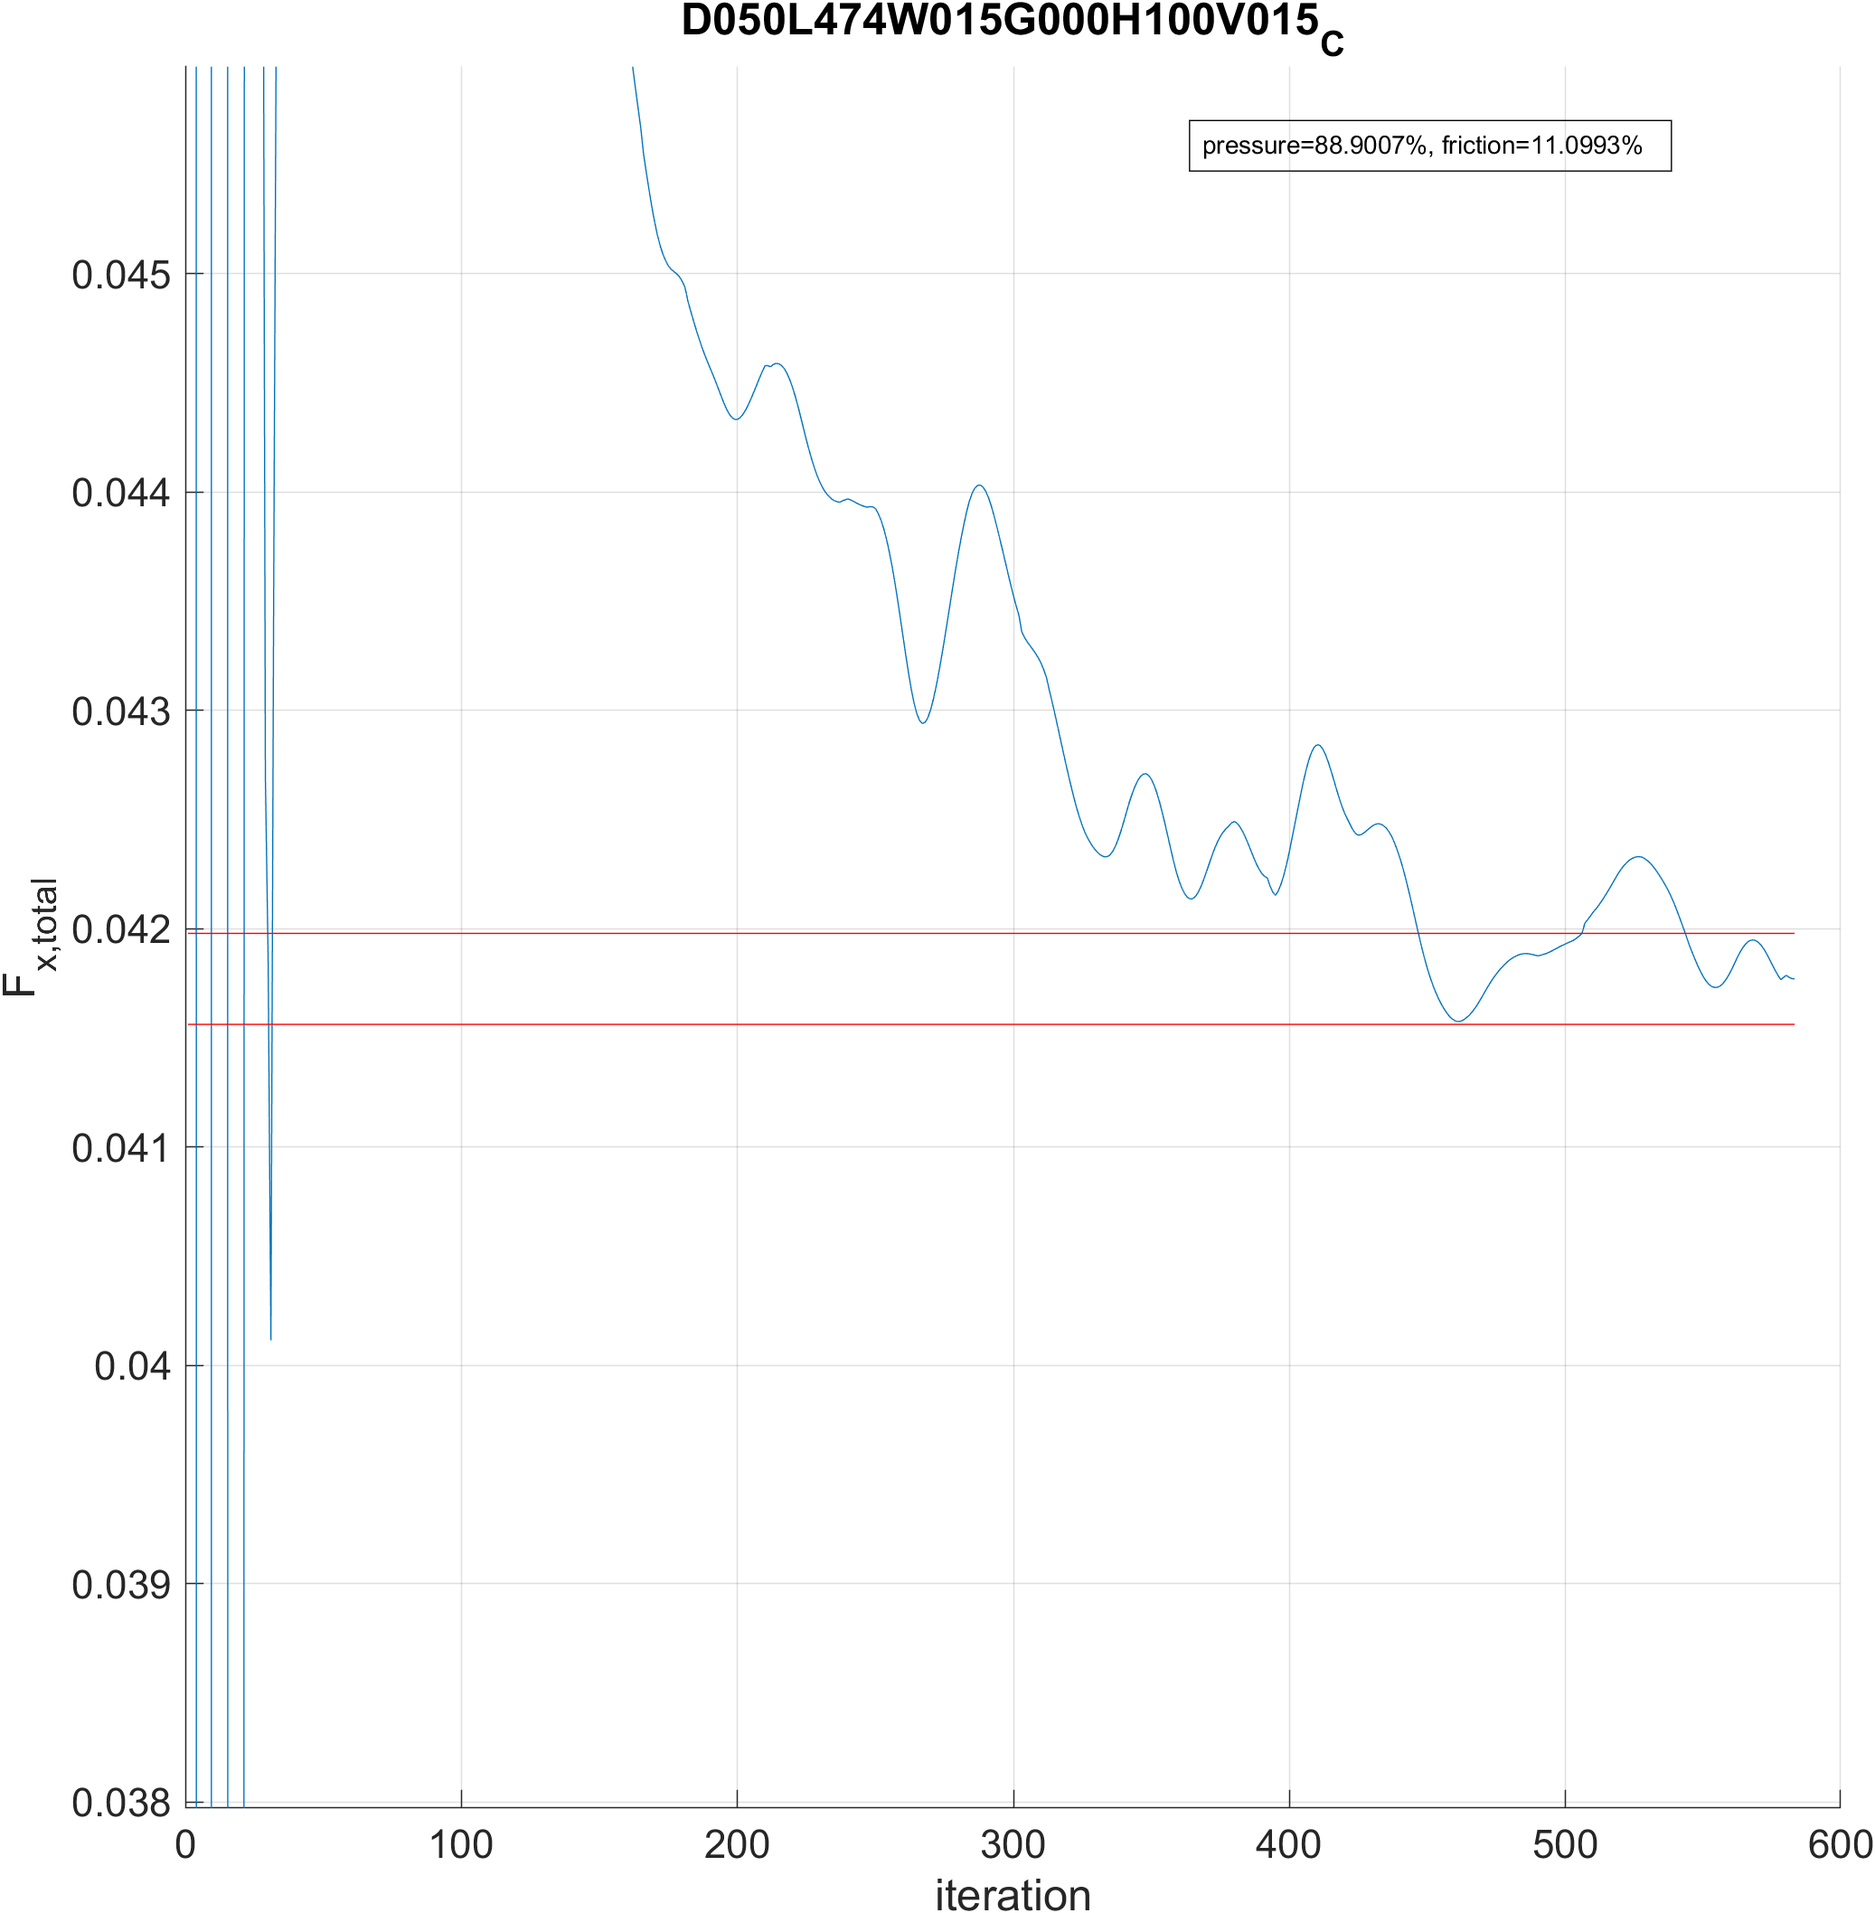
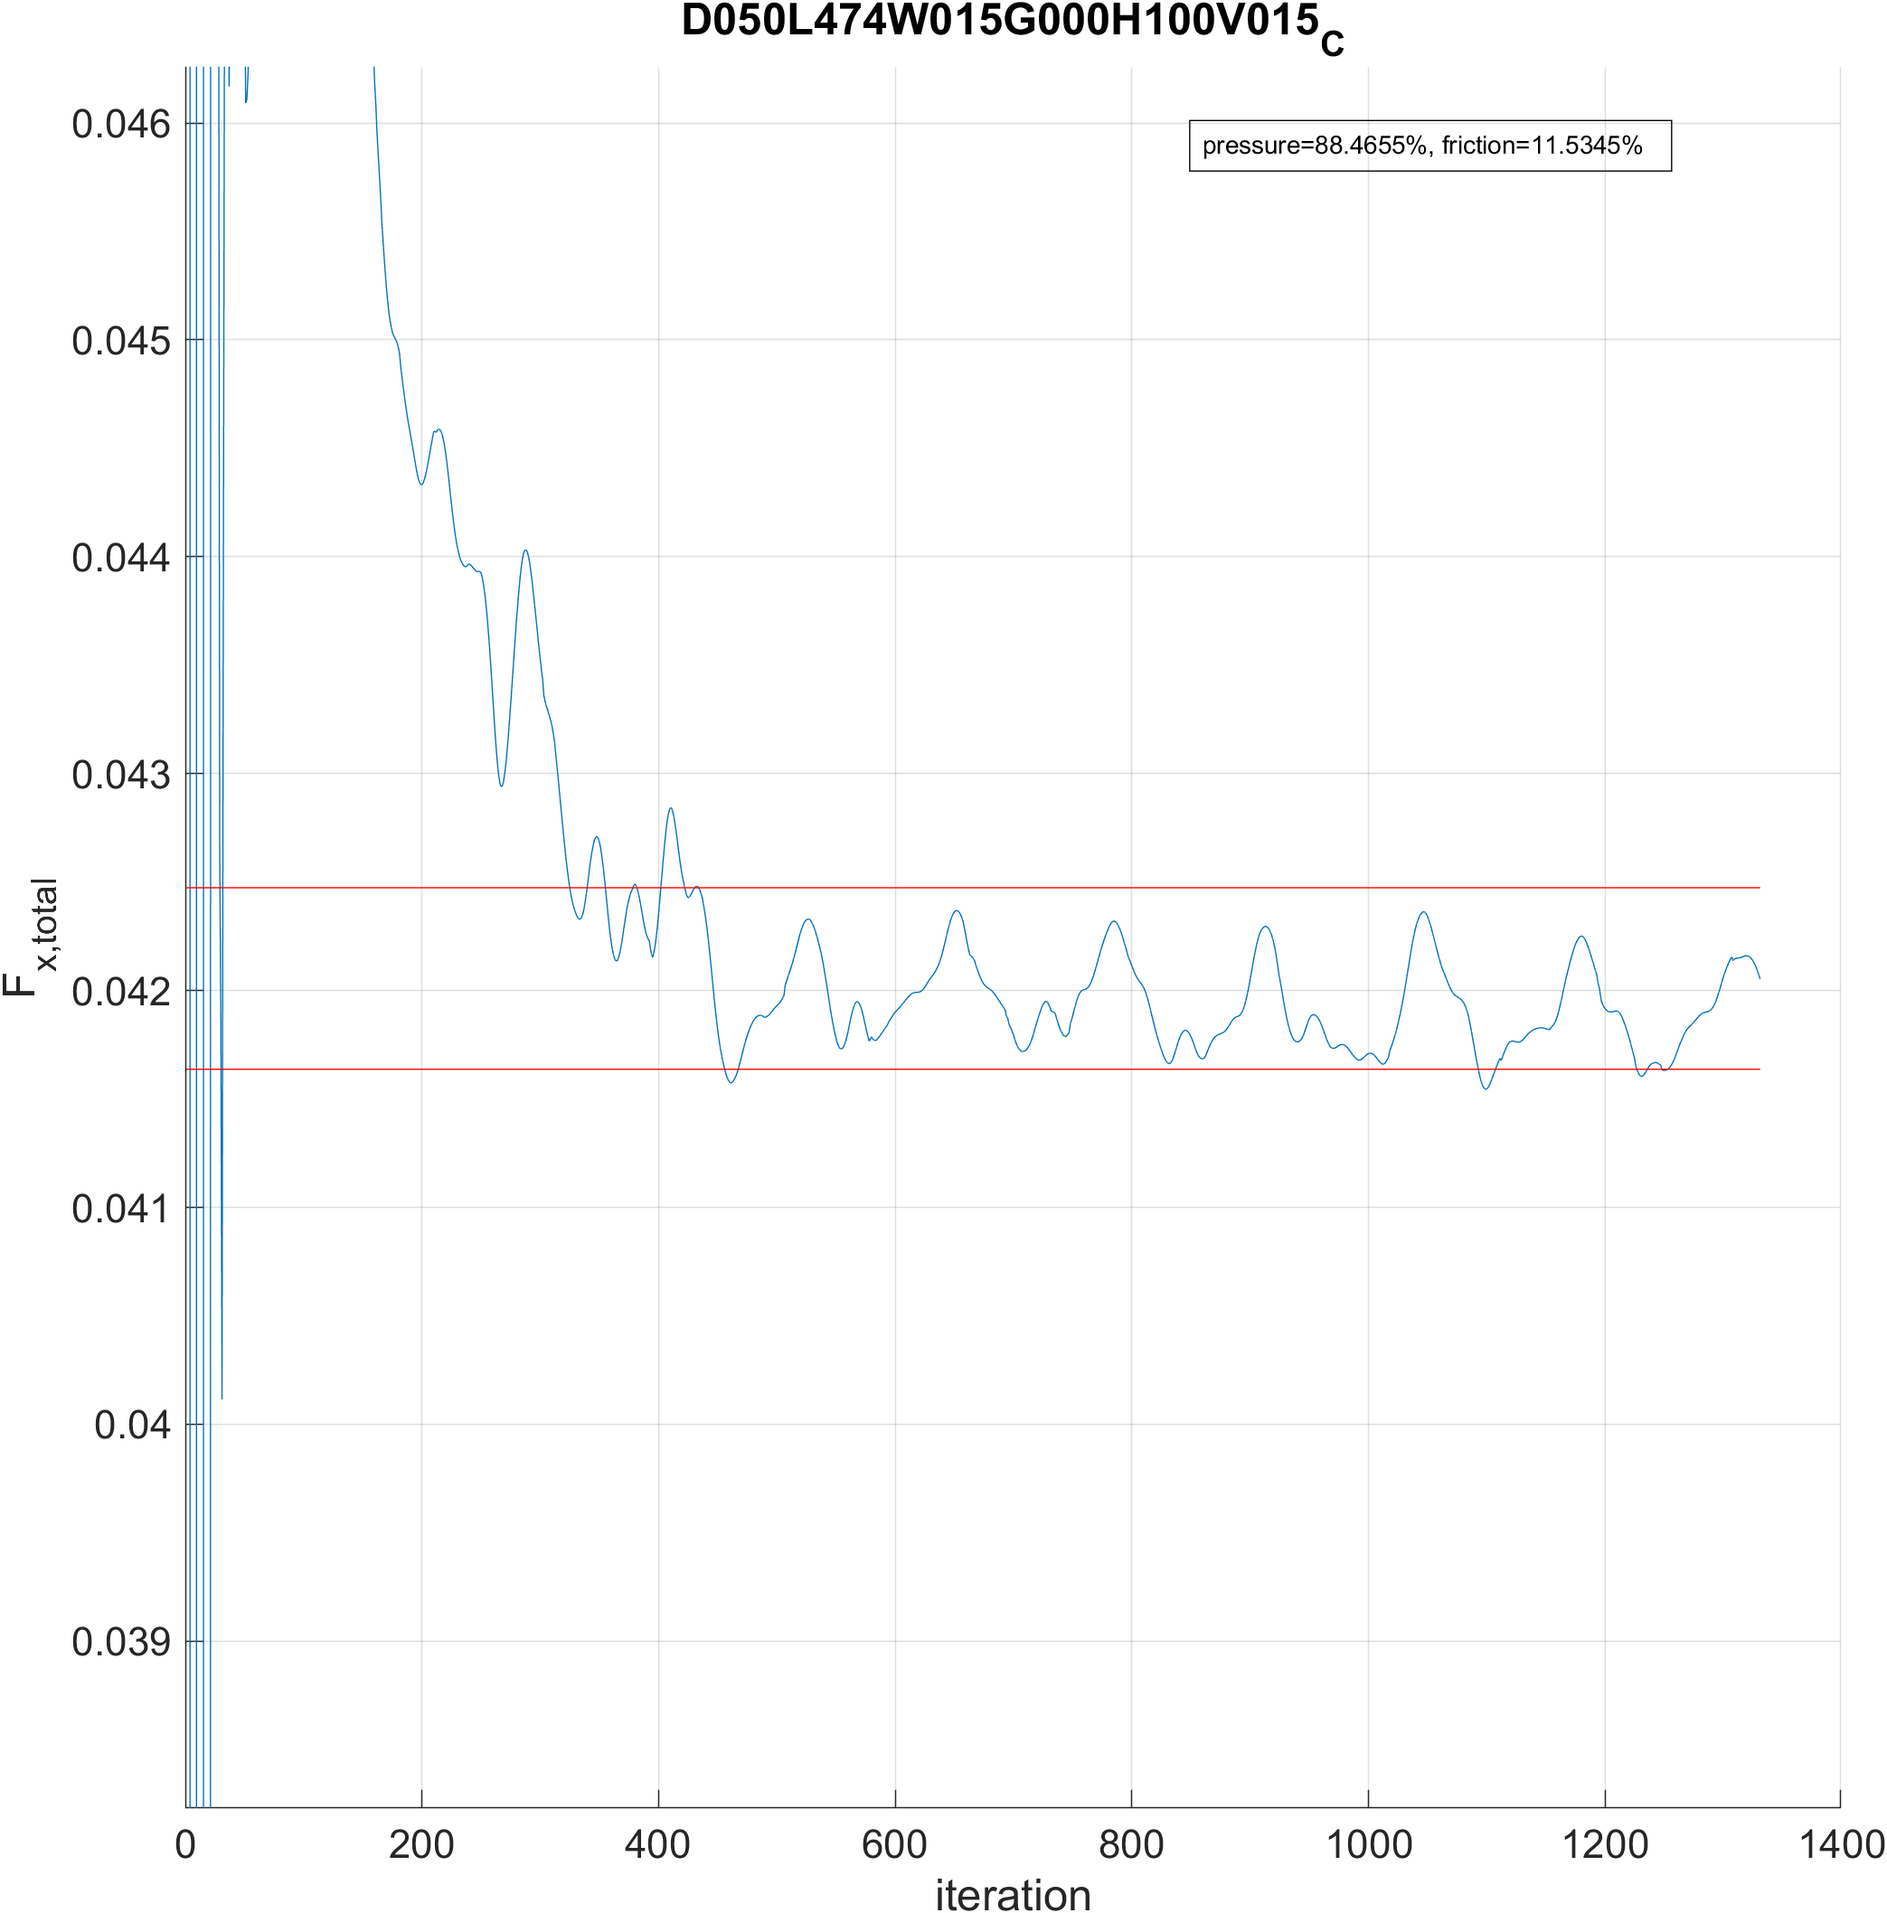
u

diff --git a/simpleFoam/checkForces.m b/simpleFoam/checkForces.m
@@ -60,7 +60,7 @@ for i = 1:length(cases)
         f.InnerPosition = [5 5 30 30];
         f.WindowState = 'normal'; %fullscreen, minimize, normal, maximize
 
-        abweichungGanglinie = 1.005; % 0.5%
+        abweichungGanglinie = 1.01; % 1%
         timeStepWindow = 100;
         hold on
         %     plot(forces(end-timeStepWindow:end,1),forces(end-timeStepWindow:end,2))
@@ -113,7 +113,7 @@ for i = 1:length(cases)
     end
 end
 
-close all
+% close all
 
 %%
 
@@ -161,11 +161,15 @@ ylabel('Reibungskraftanteil in \%',Interpreter='latex');
 set(gca, 'YColor', color2); % Set the y-axis color to match the plot
 
 xlabel('$\gamma$ in $^\circ$',Interpreter='latex');
+xlim([0 90])
+xticks(0:10:90)
 grid on
 box off
 
 set(gca,'TickLabelInterpreter','latex')
 legend(Interpreter="latex",Location="east")
+figureName = ['D:\OneDrive - Universitaet Duisburg-Essen\03_Promotion\01_Dokument\00_Main\figures\07ergebnisse\forcesRotationFpressureVsFviscous.pdf'];
+    exportgraphics(f,figureName)
 
 %%
 font = 'Arial';
@@ -203,12 +207,16 @@ plotViscous.DisplayName = "Reibungskraft";
 % Customize the right y-axis
 ylabel('$C_{D,BR}$',Interpreter='latex');
 set(gca, 'YColor', color4); % Set the y-axis color to match the plot
+xlim([0 90])
+xticks(0:10:90)
 xlabel('$\gamma$ in $^\circ$',Interpreter='latex');
 grid on
 box off
 
 set(gca,'TickLabelInterpreter','latex')
 % legend(Interpreter="latex",Location="east")
+figureName = ['D:\OneDrive - Universitaet Duisburg-Essen\03_Promotion\01_Dokument\00_Main\figures\07ergebnisse\forcesRotationCDvsF.pdf'];
+    exportgraphics(f,figureName)
 
 %% functions
 
